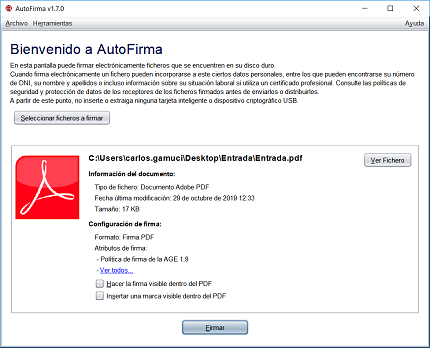
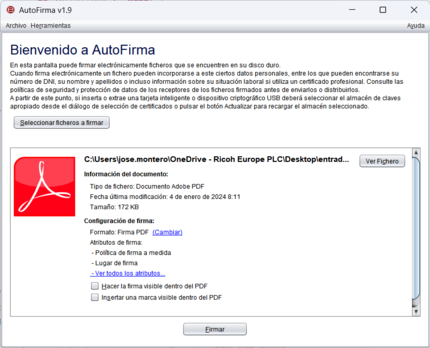
Ayuda integrada sobre el funcional de cambio de formato de firma.

Changed region(s): [[0.0, 0.0, 1.0, 1.0]]

diff --git a/afirma-simple/src/main/resources/help/Spanish.lproj/pgs/PantallaFirma.html b/afirma-simple/src/main/resources/help/Spanish.lproj/pgs/PantallaFirma.html
@@ -56,7 +56,16 @@
   <p>
    Una vez pulsado el bot&oacute;n, el programa generar&aacute; una firma para cada documento seleccionado. Para cada tipo
    de documento se generar&aacute; la firma con el formato establecido a desde el <a href="MenuPreferencias.html">panel de
-   preferencias</a>. Los tipos de documento que se distinguen y los formatos de firma que admiten se muestran en la siguiente
+   preferencias</a>.
+   </p>
+   <p>
+   En caso de que se desee firmar en otro formato distinto el fichero ya seleccionado, se permitir&aacute; modificar seleccionando el enlace "(Cambiar)"  que se encuentra junto a la información sobre el formato. Al seleccionarlo, se abrir&aacute; la siguiente ventana donde se permite elegir el formato deseado:
+   </p>
+   <p align="center">
+   <img src="../gfx/dialogocambioformato.png" alt="Pantalla para la selecci&oacute;n del formato de firma">
+   </p>
+   <p>
+   Los tipos de documento que se distinguen y los formatos de firma que admiten se muestran en la siguiente
    tabla:
   </p>
   <table>
